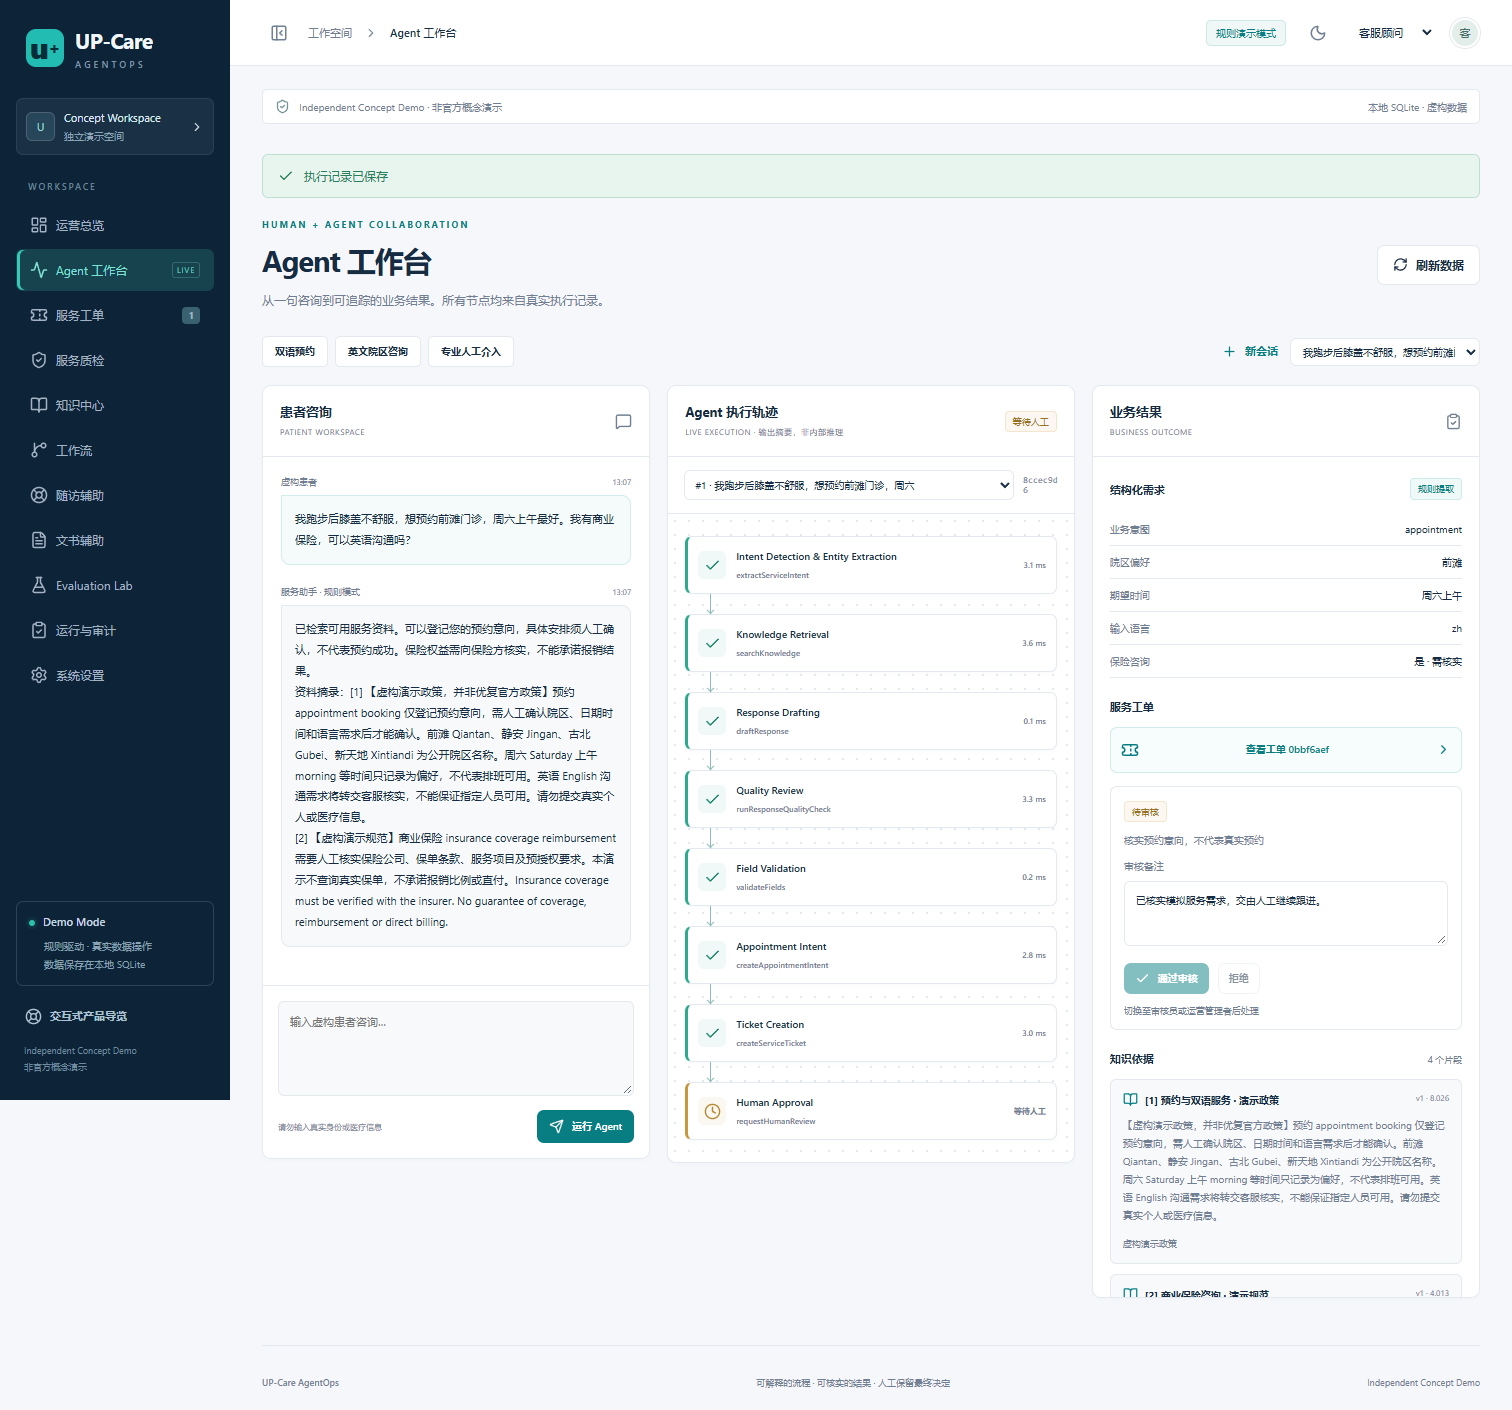
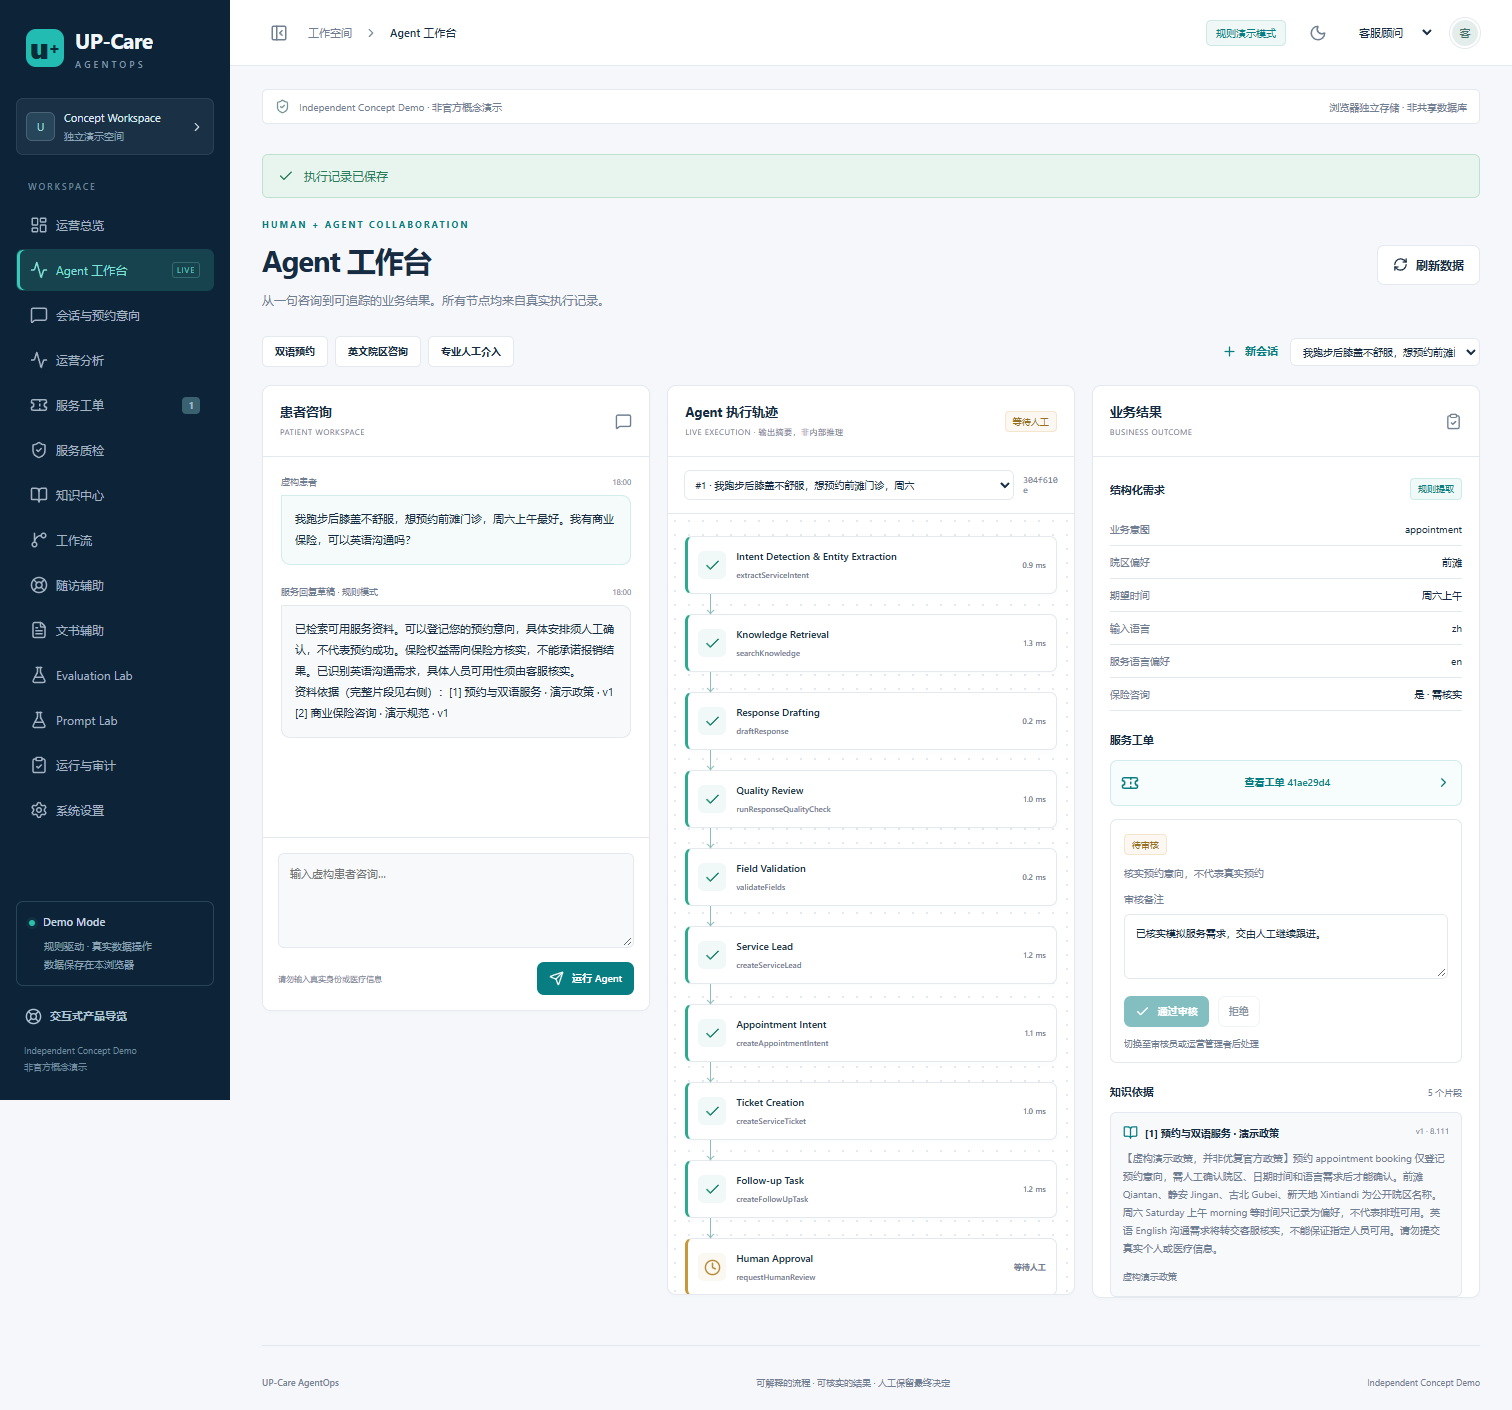
docs: record verified public delivery, screenshots and remaining production scope

diff --git a/PROJECT_STATE.md b/PROJECT_STATE.md
@@ -3,7 +3,7 @@
 更新时间：2026-10-09（Asia/Shanghai）
 
 ## 当前阶段
-公开规则演示已上线；正在完成新增批量报告、模拟集成与 Prompt 模板实验的最终回归。完整原始需求保存在 docs/MASTER_SPEC.md，没有重新创建工程。
+公开规则演示交付完成，新增批量报告、模拟集成与 Prompt 模板实验已上线并通过最终回归。完整原始需求保存在 docs/MASTER_SPEC.md，没有重新创建工程；不把规则演示等同于完整医疗生产系统。
 
 ## 已验证
 - Next.js 16.4.0 生产构建、TypeScript、ESLint 通过。
@@ -12,6 +12,8 @@
 - 77 条独立 Agent 评测通过；非 LLM 或临床基准。
 - 桌面/390px 手机页面检查无脚本错误或整页横向溢出。
 - 数据库迁移与独立空间 Seed 实际运行成功。
+- 公网 20 项 Playwright 测试通过（77.36 秒），无跳过或失败。
+- GitHub Actions 37914795358 成功（应用提交 3efed9f），Linux Chromium 双存储模式验证通过。
 
 ## 关键实现
 三栏工作台、真实 SSE、双语规则与语言偏好、多轮补问、真实关键词检索与版本、质检、联系人/线索/意向/工单/任务/审批、随访摘录、SOAP 边界、会话列表、运营分析、审计及 CSV。失败重试沿用原始 Run 幂等键。
@@ -20,10 +22,11 @@
 
 ## 发布状态
 - GitHub 仓库已创建：https://github.com/wuchan1870422-byte/up-care-agentops
-- GitHub 已推送；265cfce 对应 GitHub Actions 运行 37910477586 已成功。
+- GitHub 已推送；应用提交 3efed9f8826b7141e5069e19b4361609c1c4c79f，CI 运行 37914795358 已成功。
 - Vercel CLI 已登录 wuchan1870422-byte，已创建并明确链接 up-care-agentops。
 - 项目 ID prj_l8rZTLOcMdc7QfwWP5IQjj5anpfz。
-- 已公开部署：https://up-care-agentops.vercel.app；匿名访问与健康接口 200，首版 14 项公网 E2E 通过。
+- 已公开部署：https://up-care-agentops.vercel.app；匿名访问与健康接口 200，最新版 20 项公网 E2E 通过。
+- 应用部署 dpl_DNtYc2Jmo4gq63vDe5Gz2yok2ngN Ready；已连接 GitHub 自动部署。
 - 本地 Vercel 配置使用忽略目录 .vercel-cli，默认目录存在 EXDEV 问题。
 
 ## 外部能力
@@ -32,5 +35,5 @@ OpenAI Key 的本地保存未批准，未创建或写入 Key。真实 LLM、Embe
 ## 接续任务
 新增功能已编码：TXT/JSON 批量质检、报告导出及限阅过滤、Mock Appointment/CRM 操作、不可变 Prompt 模板版本、六案例模板规则检查与版本对比。模板实验不会自动更改咨询流程，不伪称 LLM 评测。
 
-当前验证：修复服务端 connections 与 integrations 字段冲突、工单弹窗焦点恢复；90 项工程测试、40 项浏览器回归及构建通过。正在推送、重新部署并运行公网回归。参见 TASKS.md。
+当前版本全部授权的发布步骤已完成。后续按 docs/FEATURE_STATUS.md 保留原完整需求：先落实真实模型凭据的安全存储，再实现并验证 Provider/Embedding；生产多用户需另行实现 PostgreSQL 与正式认证。Coze、真实排班与 CRM 不能仅凭 Mock 成功宣称接通。语音、任意工作流编辑及完整语义分析仍待开发。交付证据见 docs/DELIVERY.md。
 

diff --git a/docs/EVALUATION_REPORT.md b/docs/EVALUATION_REPORT.md
@@ -2,7 +2,7 @@
 
 数据集：`service-regression-v2`。规则版本：`rules-2.0`。日期：2026-10-09。
 
-实际执行 **77 条，通过 77 条**，该次本地执行耗时 **25.2466 ms**。这是一次测量，不是固定性能承诺。所有案例的输入、预期、实际和耗时都可在 Evaluation Lab 中重新运行查看。
+实际执行 **77 条，通过 77 条**，最近一次本地执行耗时 **28.4636 ms**。这是一次测量，不是固定性能承诺。所有案例的输入、预期、实际和耗时都可在 Evaluation Lab 中重新运行查看。
 
 - 30 条独立双语意图咨询。
 - 23 条风险或安全表达案例，包括 Master Scenario B 的完整原句。
@@ -15,4 +15,6 @@
 
 评测在单独生成的虚构工作空间执行工具，不污染访客的业务看板。结果保存在当前空间用于历史查看。尚未实现自动跨版本差异分析；原 v1 的 100 条后缀变体已被 77 条独立编写案例替代。
 
-没有调用真实模型：model=null、modelCalled=false、cost=null。模型超时及真实 AI 输出的不确定性尚未评估，不把这些能力算作通过；工作流超时与工具失败恢复由 69 项工程测试覆盖。
+没有调用真实模型：model=null、modelCalled=false、cost=null。模型超时及真实 AI 输出的不确定性尚未评估，不把这些能力算作通过；工作流超时与工具失败恢复包含在 90 项工程测试中。
+
+Prompt Lab 另有 `template-safety-v1` 六案例数据集，实际渲染各版本模板后检查草稿保留与规则风险，保存每条输出。默认 `{{draft}}` 版本为 6/6；人为追加保险承诺的版本为 0/6，版本对比显示 -6。这仅验证已知风险表达，不表示模板语义或真实模型生成质量。

diff --git a/README.md b/README.md
@@ -8,16 +8,25 @@ An independently built clinic operations demo that connects bilingual service in
 
 - GitHub：[wuchan1870422-byte/up-care-agentops](https://github.com/wuchan1870422-byte/up-care-agentops)
 - Live Demo：[up-care-agentops.vercel.app](https://up-care-agentops.vercel.app)（公开访问，浏览器独立保存虚构数据）
+- 已验证：90 项工程测试、40 项本地 E2E、20 项公网 E2E、77 条业务评测；[交付与验证记录](docs/DELIVERY.md)。
 - 完整需求：[MASTER_SPEC](docs/MASTER_SPEC.md)；接续开发：[PROJECT_STATE](PROJECT_STATE.md) 与 [TASKS](TASKS.md)。
 
 ![运营工作台](docs/screenshots/overview-desktop.png)
 ![咨询与执行轨迹](docs/screenshots/command-desktop.png)
 
+<details>
+<summary>查看质检与模板实验截图</summary>
+
+![批量质检与报告](docs/screenshots/quality-desktop.png)
+![模板版本回归](docs/screenshots/prompt-lab-desktop.png)
+
+</details>
+
 ## 可操作的功能
 
 | 模块 | 当前实现 |
 |---|---|
-| AI Command Center | 中英咨询、多轮补问、真实 SSE 节点流、执行轨迹、工单与引用联动 |
+| AI Command Center | 中英咨询、多轮补问、实际节点进度（本地 SSE，公开版浏览器执行回调）、执行轨迹、工单与引用联动 |
 | Service Agent | 规则意图与字段提取，语言偏好、人工转接、受控业务工具、幂等与失败重试 |
 | Service Quality | 疗效、医学判断、保险、预约、敏感信息及不当表达检查，TXT/JSON 导入最多 20 条、人工复核、报告下载 |
 | Knowledge Hub | TXT/Markdown 上传，本地模式支持文本 PDF；分块、关键词排序、引用、版本、失效及权限 |

diff --git a/docs/DELIVERY.md b/docs/DELIVERY.md
@@ -10,7 +10,17 @@
 
 已完成咨询 CSS 与页面构建恢复，咨询—检索—质检—预约意向—工单—人工审批—运营分析的持久化演示闭环。新增批量文件导入、质检报告、模拟 CRM 和预约接口、Prompt 模板版本及规则回归比较、筛选 CSV、失败幂等恢复和键盘操作修复。
 
-当前代码通过 90 项 Vitest、77 条独立业务评测、40 项本地双模式 E2E、TypeScript、ESLint 和 Next 生产构建。首版公网 14 项 E2E 已通过；本次更新的最终生产部署及 20 项公网回归正在执行，结果会写回本文。
+当前代码通过 90 项 Vitest、77 条独立业务评测、40 项本地双模式 E2E（51.4 秒）、TypeScript、ESLint 和 Next 生产构建。最终生产版本通过 20 项匿名公网 E2E（77.36 秒，无失败/跳过）。
+
+验证应用提交：`3efed9f8826b7141e5069e19b4361609c1c4c79f`。
+
+- [成功的 GitHub Actions](https://github.com/wuchan1870422-byte/up-care-agentops/actions/runs/37914795358)：Ubuntu + Chromium，完整工程检查和 40 项 E2E。
+- Vercel 部署：`dpl_DNtYc2Jmo4gq63vDe5Gz2yok2ngN`，状态 Ready，生产域名已指向该应用版本；后续纯文档提交可触发同一应用的重新部署。
+- 匿名 `/api/health`：HTTP 200，`status=ok, mode=demo, storage=browser, modelCalled=false`。
+- 桌面与 390px 手机检查：无 pageerror、无整页横向溢出；最终截图在 screenshots/。
+- GitHub 与 Vercel 已连接，后续提交可自动部署；无需在 GitHub Actions 配置模型或部署密钥。
+
+交付文档更新未改变上述已测应用代码。
 
 ## 明确边界
 

diff --git a/docs/DEMO_GUIDE.md b/docs/DEMO_GUIDE.md
@@ -26,6 +26,8 @@
 
 服务质检点击“批量演示 · 20 条”，真实保存 20 次规则检查。也可导入 TXT（每行一条）或 JSON 字符串数组，最多 20 条、200KB；逐条显示实际已保存数。切换医疗审核员/管理者/管理员，导出本批次或全部质检 TXT 报告。
 
+可直接导入 [虚构质检示例文件](examples/fictional-quality-batch.json)。其中故意包含风险话术，用于验证检出效果，不是服务建议。
+
 ## Prompt 模板与模拟集成
 
 切换管理员，Prompt Lab 保存默认 `{{draft}}` 模板，点击“检查模板 v1”。再将模板改为 `{{draft}}` 后加“保险肯定能报销。”，保存 v2 并检查，观察实际检出的风险与通过项下降。模板不会自动应用到咨询流程，未调用任何模型。

diff --git a/TASKS.md b/TASKS.md
@@ -18,7 +18,8 @@
 - [x] GitHub Actions CI（首次实际运行成功）
 - [x] 批量文件导入、可导出质检报告、集成模拟接口
 - [x] Prompt 模板版本、真实规则检查与历史对比（不调用 LLM）
-- [ ] 新增功能最终回归、推送和生产重新部署
+- [x] 新增功能最终回归、推送和生产重新部署
+- [x] 20 项公网 E2E、匿名健康检查、CI 成功、最新截图与交付记录
 - [x] 进一步无障碍与最终缺陷检查（稳定表单标签、弹窗 Escape、焦点恢复）
 - [ ] 真实 LLM / Embedding / Coze 在线验证（缺少已授权凭据）
 - [ ] PostgreSQL 共享后端和生产认证
